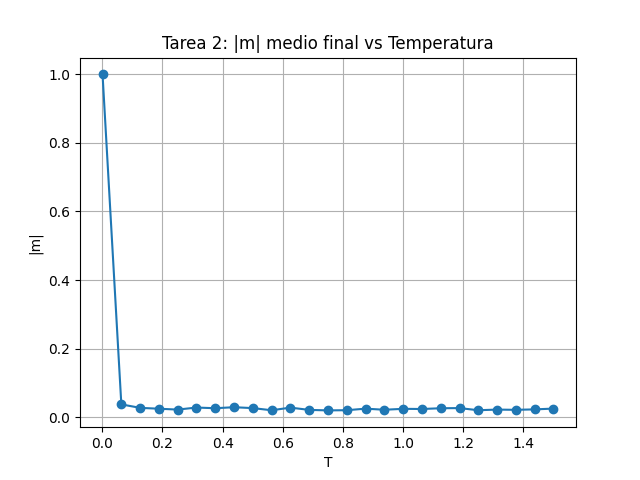
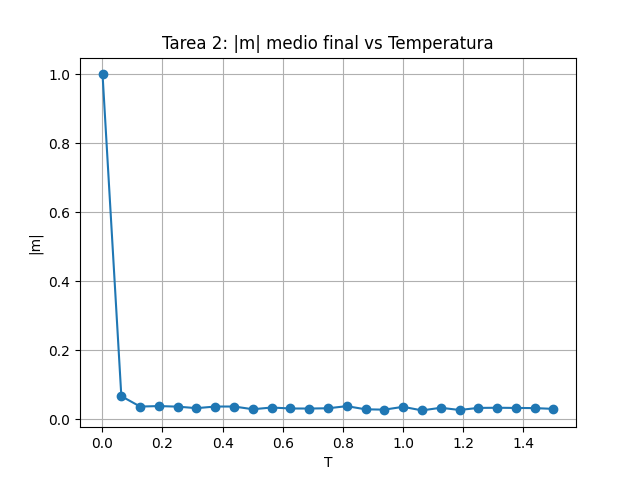
mejoras

diff --git a/voluntario2/hopfield.py b/voluntario2/hopfield.py
@@ -2,6 +2,7 @@ import numpy as np
 import matplotlib.pyplot as plt
 from matplotlib.animation import FuncAnimation
 import os
+from IPython.display import Image, display
 
 # --- CONFIGURACIÓN DE RUTA ---
 PATH = r"C:\Users\Usuario\Desktop\2526_Computacional\voluntario2"
@@ -64,6 +65,8 @@ class HopfieldNet:
             if delta_E <= 0 or np.random.rand() < np.exp(-delta_E / T):
                 s[i] = 1.0 - s[i]
         return s.reshape((self.N, self.N))
+    
+
 
 def obtener_diccionario_letras(N):
     # Definimos plantillas 5x7 para las letras. 'X' es píxel activo, '.' es inactivo.
@@ -99,71 +102,119 @@ def obtener_diccionario_letras(N):
 
     diccionario = {}
     for letra, lineas in plantillas.items():
-        matriz_pequena = np.array([[1 if c == 'X' else 0 for c in fila] for fila in lineas])
-        diccionario[letra] = np.kron(matriz_pequena, np.ones((N // 7 + 1, N // 5 + 1)))[:N, :N]
+        # Convertimos la plantilla de texto a una matriz numérica
+        matriz_pequeña = np.array([[1 if c == 'X' else 0 for c in fila] for fila in lineas])
+        # Escalamos la matriz pequeña para que encaje en el tamaño N x N de la red
+        diccionario[letra] = np.kron(matriz_pequeña, np.ones((N // 7 + 1, N // 5 + 1)))[:N, :N]
     return diccionario
+
 
 def run_all_tasks():
     T_low = 1e-4
 
-    # --- TAREA 1: ANIMACIÓN (N=50) ---
-    print("Generando GIF de la Tarea 1...")
-    N1 = 50
+    # --- TAREA 1: RECUPERACIÓN DE UN PATRÓN (N=30) ---
+    print("Ejecutando Tarea 1: Animación y Gráfica...")
+    N1 = 30
     p1 = np.zeros((N1, N1))
     p1[N1//2-2:N1//2+2, :] = 1
     p1[:, N1//2-2:N1//2+2] = 1 # Patrón en cruz
     net1 = HopfieldNet(N1)
     net1.store_patterns([p1])
-    
-    
-    state = np.random.randint(0, 2, (N1, N1))
 
-    fig, (ax1, ax2) = plt.subplots(1, 2, figsize=(12, 5))
-    im = ax1.imshow(state, cmap='binary')
-    line, = ax2.plot([], [], 'r-')
-    ax2.set_xlim(0, 20); ax2.set_ylim(-1.1, 1.1)
-    ax2.set_title("Solapamiento m(t)")
-    ax2.grid(True)
-    m_hist = []
+    # 1. Condición inicial aleatoria
+    state_rand = np.random.randint(0, 2, (N1, N1))
+
+    # 2. Condición inicial deformada (30% de ruido)
+    state_def = p1.copy()
+    ruido_t1 = np.random.rand(N1, N1) < 0.3
+    state_def[ruido_t1] = 1 - state_def[ruido_t1]
+
+    # Preparar figura para animación con 3 paneles
+    fig1, (ax1, ax2, ax3) = plt.subplots(1, 3, figsize=(15, 5))
+
+    im_rand = ax1.imshow(state_rand, cmap='binary')
+    ax1.set_title("C.I. Aleatoria")
+    ax1.axis('off')
+
+    im_def = ax2.imshow(state_def, cmap='binary')
+    ax2.set_title("C.I. Deformada (30%)")
+    ax2.axis('off')
+
+    line_rand, = ax3.plot([], [], 'r-', label="Aleatoria")
+    line_def, = ax3.plot([], [], 'b-', label="Deformada")
+    ax3.set_xlim(0, 25)
+    ax3.set_ylim(-1.1, 1.1)
+    ax3.set_title("Solapamiento m(t)")
+    ax3.set_xlabel("Pasos Monte Carlo")
+    ax3.set_ylabel("m(t)")
+    ax3.legend(loc="lower right")
+    ax3.grid(True)
+
+    m_hist_rand = []
+    m_hist_def = []
 
     def update(frame):
-        nonlocal state
-        m_hist.append(net1.overlap(state, 0))
-        im.set_data(state)
-        line.set_data(range(len(m_hist)), m_hist)
-        state = net1.metropolis_step(state, T_low)
-        return im, line
+        nonlocal state_rand, state_def
+        m_hist_rand.append(net1.overlap(state_rand, 0))
+        m_hist_def.append(net1.overlap(state_def, 0))
 
-    ani = FuncAnimation(fig, update, frames=21, blit=True)
-    ani.save(os.path.join(PATH, "evolucion_hopfield.gif"), writer='pillow')
+        im_rand.set_data(state_rand)
+        im_def.set_data(state_def)
+
+        line_rand.set_data(range(len(m_hist_rand)), m_hist_rand)
+        line_def.set_data(range(len(m_hist_def)), m_hist_def)
+
+        state_rand = net1.metropolis_step(state_rand, T_low)
+        state_def = net1.metropolis_step(state_def, T_low)
+
+        return im_rand, im_def, line_rand, line_def
+
+    ani = FuncAnimation(fig1, update, frames=26, blit=True)
+    gif_path = os.path.join(PATH, "tarea1_evolucion.gif")
+    ani.save(gif_path, writer='pillow')
+    plt.close(fig1)
+    display(Image(filename=gif_path)) # Renderiza el GIF en el notebook
+
+    plt.figure(figsize=(8, 5))
+    plt.plot(m_hist_rand, label="C.I. Aleatoria", marker='o', color='red')
+    plt.plot(m_hist_def, label="C.I. Deformada (30%)", marker='s', color='blue')
+    plt.title("Tarea 1: Evolución temporal del solapamiento")
+    plt.xlabel("Pasos Monte Carlo")
+    plt.ylabel("Solapamiento m(t)")
+    plt.legend()
+    plt.grid(True)
+    plt.savefig(os.path.join(PATH, "tarea1_overlap.png"))
+    plt.show() # Renderiza la gráfica estática
     plt.close()
 
     # --- TAREA 2: INFLUENCIA DE LA TEMPERATURA ---
-    print("Ejecutando Tarea 2: Solapamiento vs Temperatura...")
+    print("\nEjecutando Tarea 2: Solapamiento vs Temperatura...")
     temps = np.linspace(0.001, 1.5, 25)
     m_finales = []
-    
+
     for t in temps:
         s_t = p1.copy()
-        
-        # 1. Termalización: Dejamos que la red evolucione durante 100 pasos para alcanzar un estado estacionario a la temperatura dada.
+
+        # Termalización
         for _ in range(100):
             s_t = net1.metropolis_step(s_t, t)
-            
-        # 2. Promediado de la medida (reducción de fluctuaciones térmicas)
+
+        # Promediado de la medida
         m_avg = 0
         for _ in range(50):
             s_t = net1.metropolis_step(s_t, t)
             m_avg += abs(net1.overlap(s_t, 0))
-            
+
         m_finales.append(m_avg / 50.0)
 
     plt.figure()
     plt.plot(temps, m_finales, 'o-')
     plt.title("Tarea 2: |m| medio final vs Temperatura")
     plt.xlabel("T"); plt.ylabel("|m|")
-    plt.grid(); plt.savefig(os.path.join(PATH, "tarea2_m_vs_T.png"))
-    print(f"Gráfica guardada en {PATH}")
+    plt.grid()
+    plt.savefig(os.path.join(PATH, "tarea2_m_vs_T.png"))
+    plt.show() # Renderiza la gráfica estática
+    plt.close()
 
     # --- TAREA 3: INTERACCIÓN CON EL USUARIO (N=30) ---
     print("\n--- INICIANDO TAREA 3 ---")
@@ -180,61 +231,75 @@ def run_all_tasks():
     net3 = HopfieldNet(N3)
     net3.store_patterns(letras_elegidas)
 
-    print(f"Simulando recuperación de la letra '{entrada[0]}'...")
-    s_test = letras_elegidas[0].copy()
-    ruido = np.random.rand(N3, N3) < 0.3
-    s_test[ruido] = 1 - s_test[ruido]
+    print(f"Simulando recuperación desde la letra '{entrada[0]}' deformada...")
+    s_def_3 = letras_elegidas[0].copy()
+    ruido_t3 = np.random.rand(N3, N3) < 0.3
+    s_def_3[ruido_t3] = 1 - s_def_3[ruido_t3]
 
-    m_hist_3 = {i: [] for i in range(3)}
-    
+    print("Simulando recuperación desde un estado aleatorio...")
+    s_rand_3 = np.random.randint(0, 2, (N3, N3))
+
+    m_hist_def_3 = {i: [] for i in range(3)}
+    m_hist_rand_3 = {i: [] for i in range(3)}
+
     for _ in range(30):
         for i in range(3):
-            m_hist_3[i].append(net3.overlap(s_test, i))
-        s_test = net3.metropolis_step(s_test, T_low)
+            m_hist_def_3[i].append(net3.overlap(s_def_3, i))
+            m_hist_rand_3[i].append(net3.overlap(s_rand_3, i))
+        s_def_3 = net3.metropolis_step(s_def_3, T_low)
+        s_rand_3 = net3.metropolis_step(s_rand_3, T_low)
 
-    plt.figure()
+    fig3, (ax1_t3, ax2_t3) = plt.subplots(1, 2, figsize=(14, 5))
+
     for i in range(3):
-        plt.plot(m_hist_3[i], label=f"Letra {entrada[i]}")
-    plt.title(f"Tarea 3: Evolución con letras {entrada}")
-    plt.xlabel("Pasos Monte Carlo"); plt.ylabel("Solapamiento m")
-    plt.legend(); plt.grid()
+        ax1_t3.plot(m_hist_def_3[i], label=f"Letra {entrada[i]}")
+    ax1_t3.set_title(f"Tarea 3: C.I. Letra '{entrada[0]}' Deformada")
+    ax1_t3.set_xlabel("Pasos Monte Carlo")
+    ax1_t3.set_ylabel("Solapamiento m")
+    ax1_t3.legend()
+    ax1_t3.grid(True)
+
+    for i in range(3):
+        ax2_t3.plot(m_hist_rand_3[i], label=f"Letra {entrada[i]}")
+    ax2_t3.set_title("Tarea 3: C.I. Totalmente Aleatoria")
+    ax2_t3.set_xlabel("Pasos Monte Carlo")
+    ax2_t3.set_ylabel("Solapamiento m")
+    ax2_t3.legend()
+    ax2_t3.grid(True)
+
+    plt.tight_layout()
     plt.savefig(os.path.join(PATH, "tarea3_letras_usuario.png"))
-    print(f"Gráfica guardada en {PATH}")
+    plt.show() # Renderiza la gráfica estática
+    plt.close(fig3)
 
     # --- TAREA 4: CAPACIDAD (N=20) ---
     print("\nCalculando Tarea 4: Capacidad Crítica...")
     N4 = 20
-    
-    #  Para N=20 (400 neuronas), la capacidad teórica máxima es
-    # P_c = 0.138 * 400 = 55. Probamos hasta 120 para ver el comportamiento empírico.
-    P_vals = np.arange(1, 120, 5) 
+    P_vals = np.arange(1, 120, 5)
     recuperados = []
     Pc = 0
-    
+
     for P in P_vals:
         p_list = [(np.random.rand(N4, N4) > 0.5).astype(int) for _ in range(P)]
         net4 = HopfieldNet(N4)
         net4.store_patterns(p_list)
-        
+
         count = 0
         for mu in range(P):
             s_test = p_list[mu].copy()
-            
-            # Para saber si el estado es un atractor y no un
-            # máximo inestable, hay que darle un empujón diminuto (ruido) y 
-            # dejarlo evolucionar. 
+
+            # Ruido inicial para verificar estabilidad
             ruido = np.random.rand(N4, N4) < 0.05
             s_test[ruido] = 1 - s_test[ruido]
-            
-            # Evolucionamos para verificar la estabilidad de la cuenca de atracción.
+
             for _ in range(25):
                 s_test = net4.metropolis_step(s_test, T_low)
-                
+
             if net4.overlap(s_test, mu) > 0.75:
                 count += 1
-                
+
         recuperados.append(count)
-        if count >= P * 0.9: 
+        if count >= P * 0.9:
             Pc = P
 
     alpha_c = Pc / (N4*N4)
@@ -244,10 +309,14 @@ def run_all_tasks():
     plt.plot(P_vals, recuperados, 's-', label="Recordados")
     plt.plot(P_vals, P_vals, '--k', alpha=0.3, label="Límite Ideal")
     plt.axvline(x=Pc, color='r', label=f'Pc={Pc}')
+    plt.title("Tarea 4: Capacidad de Memoria y Amnesia Catastrófica")
     plt.xlabel("Patrones almacenados (P)")
     plt.ylabel("Patrones recordados")
-    plt.legend(); plt.grid()
+    plt.legend()
+    plt.grid()
     plt.savefig(os.path.join(PATH, "tarea4_capacidad.png"))
+    plt.show() # Renderiza la gráfica estática
+    plt.close()
 
 if __name__ == "__main__":
     run_all_tasks()